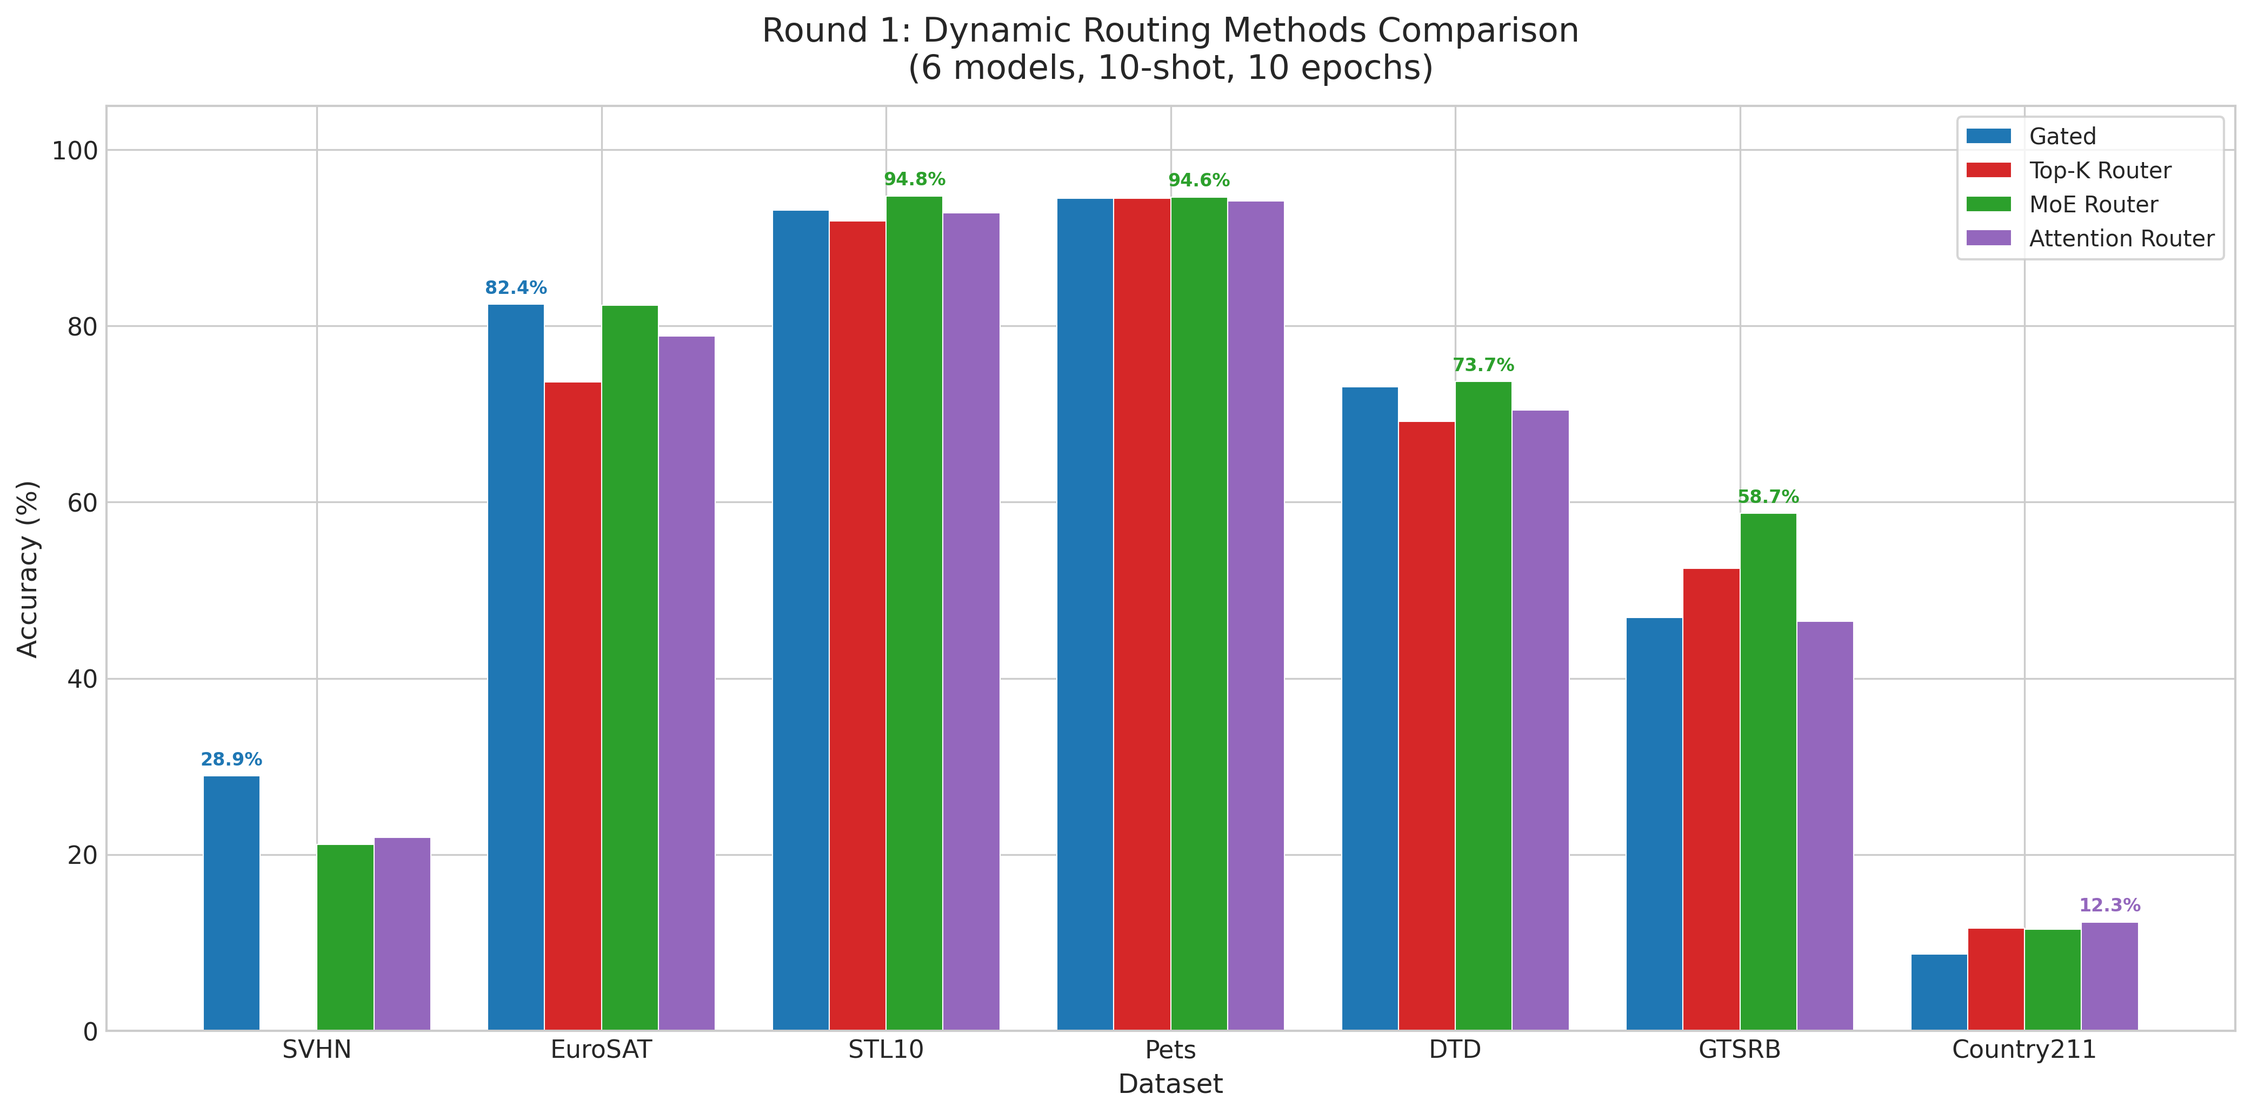
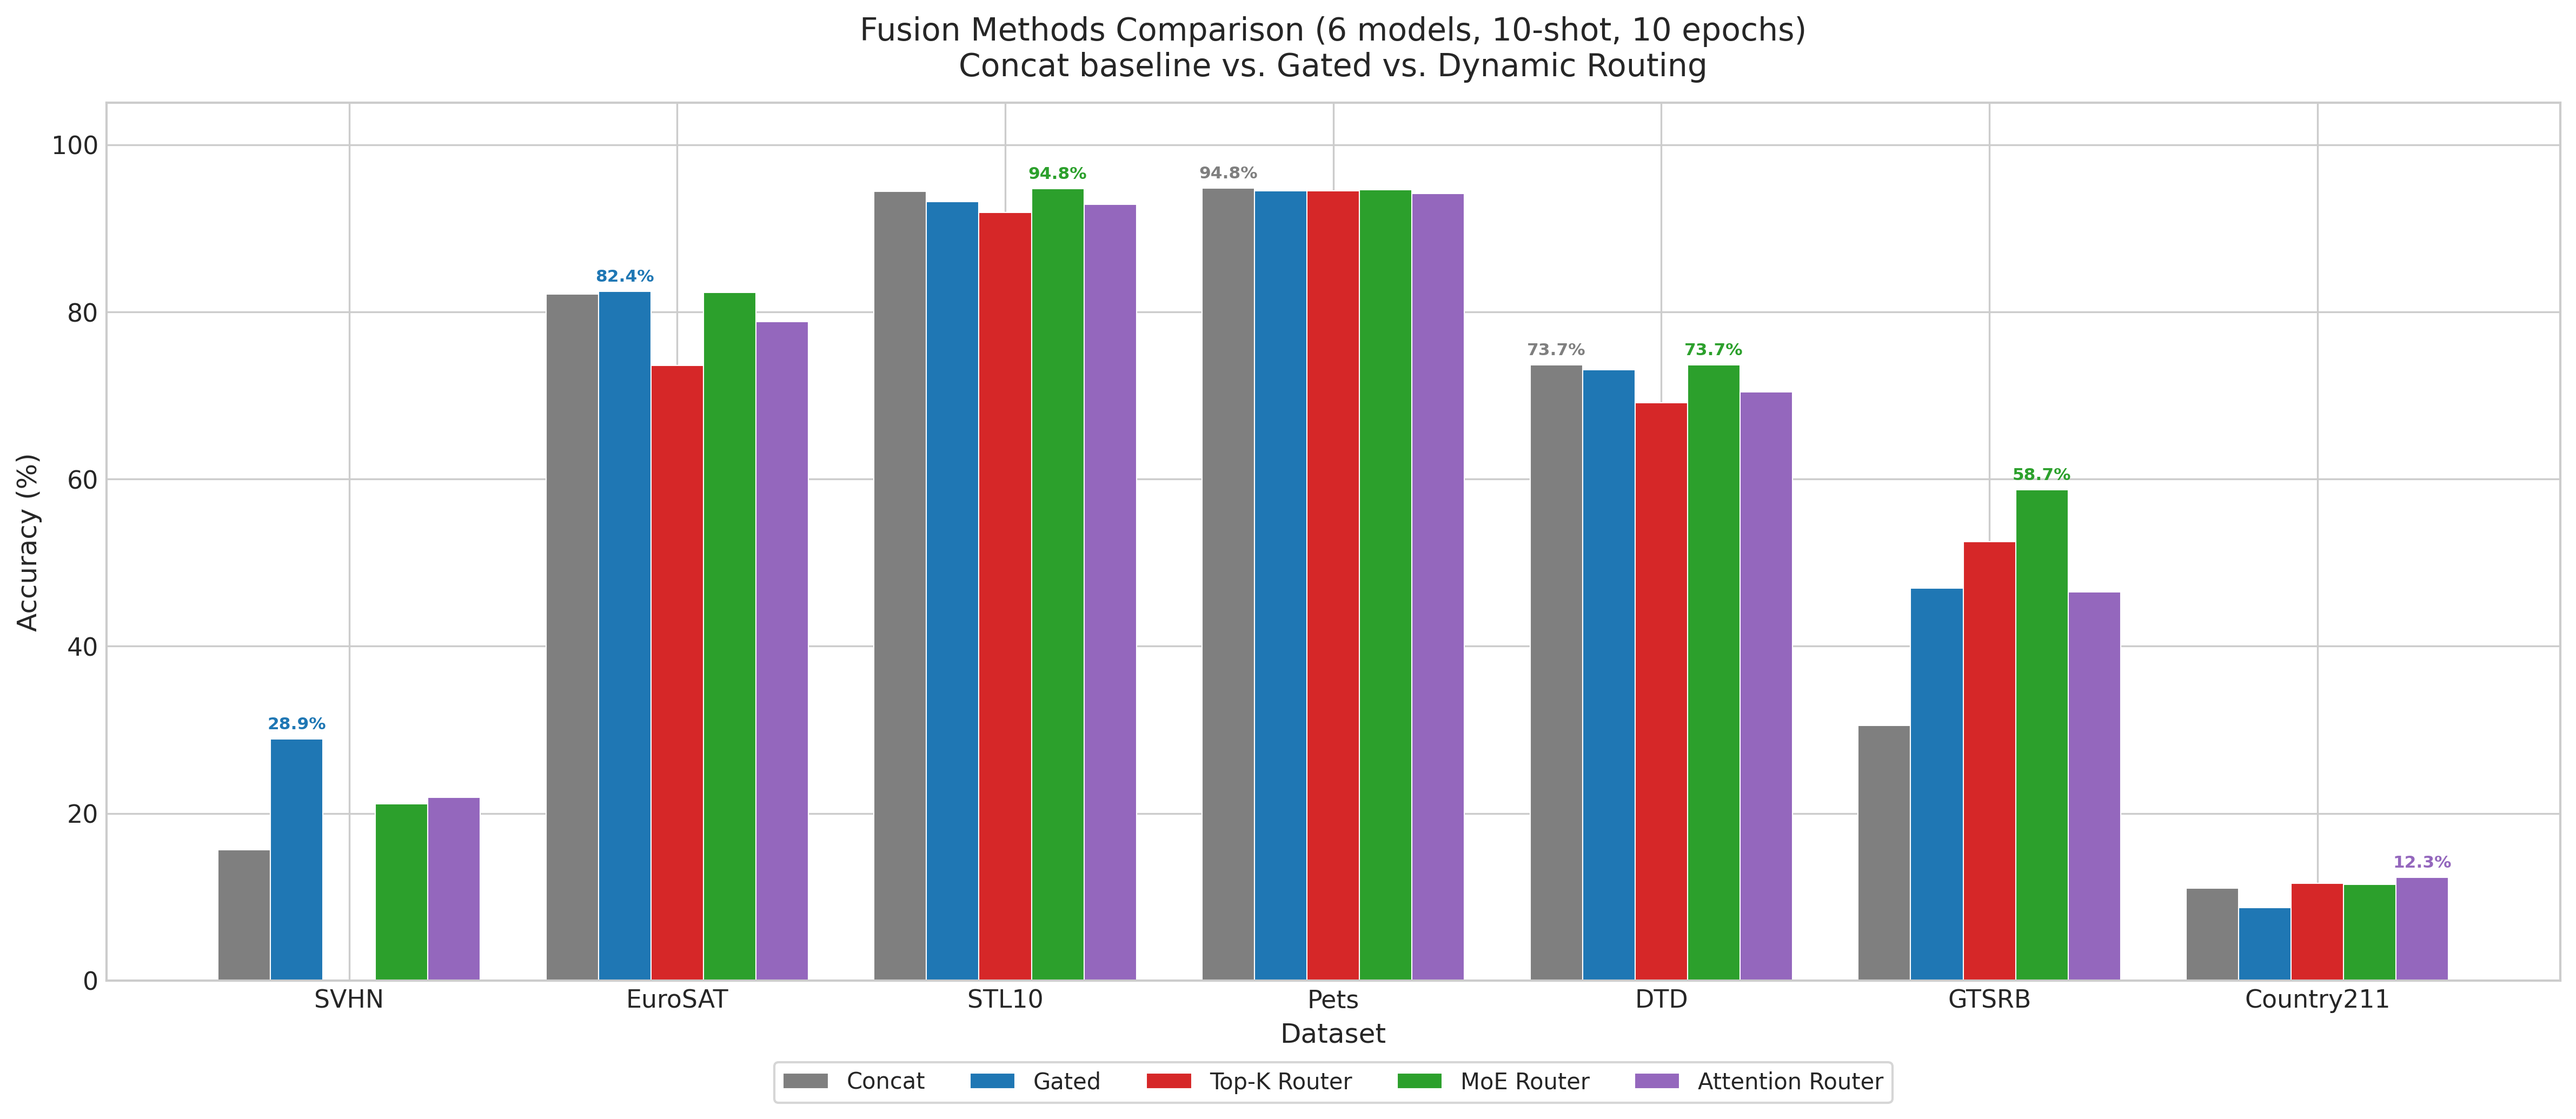
feat: add Concat baseline to Round 1 routing comparison
Include Concat (simple concatenation) as a 5th method in all Round 1
plots and tables. Key insight: Concat wins on STL10/Pets where features
are naturally complementary, while MoE/Gated routing excels on harder
datasets like GTSRB/SVHN.

diff --git a/README.md b/README.md
@@ -836,32 +836,33 @@ ls "$STORAGE_DIR/data"
 
 ![Round 1 Summary](assets/routing_round1_summary.png)
 
-| 数据集 | Gated | Top-K Router | MoE Router | Attention Router | 最佳方法 |
-|--------|-------|-------------|------------|------------------|----------|
-| SVHN | **28.93%** | N/A | 21.17% | 21.91% | Gated |
-| EuroSAT | **82.44%** | 73.61% | 82.35% | 78.85% | Gated |
-| STL10 | 93.17% | 91.91% | **94.75%** | 92.85% | MoE Router |
-| Pets | 94.47% | 94.47% | **94.63%** | 94.19% | MoE Router |
-| DTD | 73.09% | 69.15% | **73.67%** | 70.43% | MoE Router |
-| GTSRB | 46.93% | 52.49% | **58.72%** | 46.49% | MoE Router |
-| Country211 | 8.72% | 11.63% | 11.52% | **12.34%** | Attention Router |
+| 数据集 | Concat | Gated | Top-K Router | MoE Router | Attention Router | 最佳方法 |
+|--------|--------|-------|-------------|------------|------------------|----------|
+| SVHN | 15.63% | **28.93%** | N/A | 21.17% | 21.91% | Gated |
+| EuroSAT | 82.13% | **82.44%** | 73.61% | 82.35% | 78.85% | Gated |
+| STL10 | **94.41%** | 93.17% | 91.91% | 94.75% | 92.85% | Concat |
+| Pets | **94.79%** | 94.47% | 94.47% | 94.63% | 94.19% | Concat |
+| DTD | 73.67% | 73.09% | 69.15% | **73.67%** | 70.43% | Concat / MoE |
+| GTSRB | 30.55% | 46.93% | 52.49% | **58.72%** | 46.49% | MoE Router |
+| Country211 | 11.07% | 8.72% | 11.63% | 11.52% | **12.34%** | Attention Router |
 
 #### 方法获胜统计
 
 | 方法 | 获胜次数 | 擅长场景 |
 |------|---------|---------|
-| MoE Router | **4/7** | 中等-高难度分类 (STL10, Pets, DTD, GTSRB) |
-| Gated | 2/7 | 低类别数简单任务 (SVHN, EuroSAT) |
+| Concat | **2/7** | 高准确率简单任务 (STL10, Pets)，模型特征天然互补 |
+| Gated | 2/7 | 低类别数任务 (SVHN, EuroSAT)，需要自适应抑制噪声 |
+| MoE Router | 2/7 | 中等-高难度分类 (DTD, GTSRB)，需要自适应模型选择 |
 | Attention Router | 1/7 | 高类别数困难任务 (Country211, 211类) |
 | Top-K Router | 0/7 | k=2 过于激进，需消融实验 |
 
 #### Round 1 关键发现
 
-1. **MoE Router 整体最佳**：soft routing + load-balancing + entropy 正则的组合最稳定，在 4/7 数据集上胜出
-2. **GTSRB 提升最显著**：MoE Router (58.72%) 比 Gated (46.93%) 高出 **+11.79pp**，交通标志识别从自适应路由获益最大
-3. **Gated 在简单任务上仍有优势**：SVHN、EuroSAT (10类) 上简单门控足够，复杂路由反而引入噪声
-4. **Attention Router 适合高类别数**：Country211 (211类) 上唯一超越其他方法，模型间交互建模对细粒度分类有帮助
-5. **Top-K Router 需改进**：k=2 的稀疏选择过于激进，后续需消融 k 值
+1. **Concat baseline 意外表现不错**：STL10 (94.41%) 和 Pets (94.79%) 上简单拼接优于所有动态路由方法，说明这些数据集上模型特征天然互补，复杂路由反而增加训练难度
+2. **MoE Router 在 GTSRB 上提升最大**：58.72% vs Concat 30.55%，+28.17pp。交通标志识别从自适应路由获益最大
+3. **Gated 在 SVHN 上大幅超越 Concat**：28.93% vs 15.63%，+13.30pp。digit 识别需要自适应权重来抑制不相关模型的噪声
+4. **Attention Router 适合高类别数**：Country211 (211类) 上唯一超越其他方法
+5. **动态路由 vs Concat 的选择取决于数据集特性**：简单/高准确率数据集用 Concat 即可，复杂/不平衡数据集（如 GTSRB、SVHN）则需要 MoE/Gated 路由
 
 ### Round 2：Top-K Router k 值消融
 
